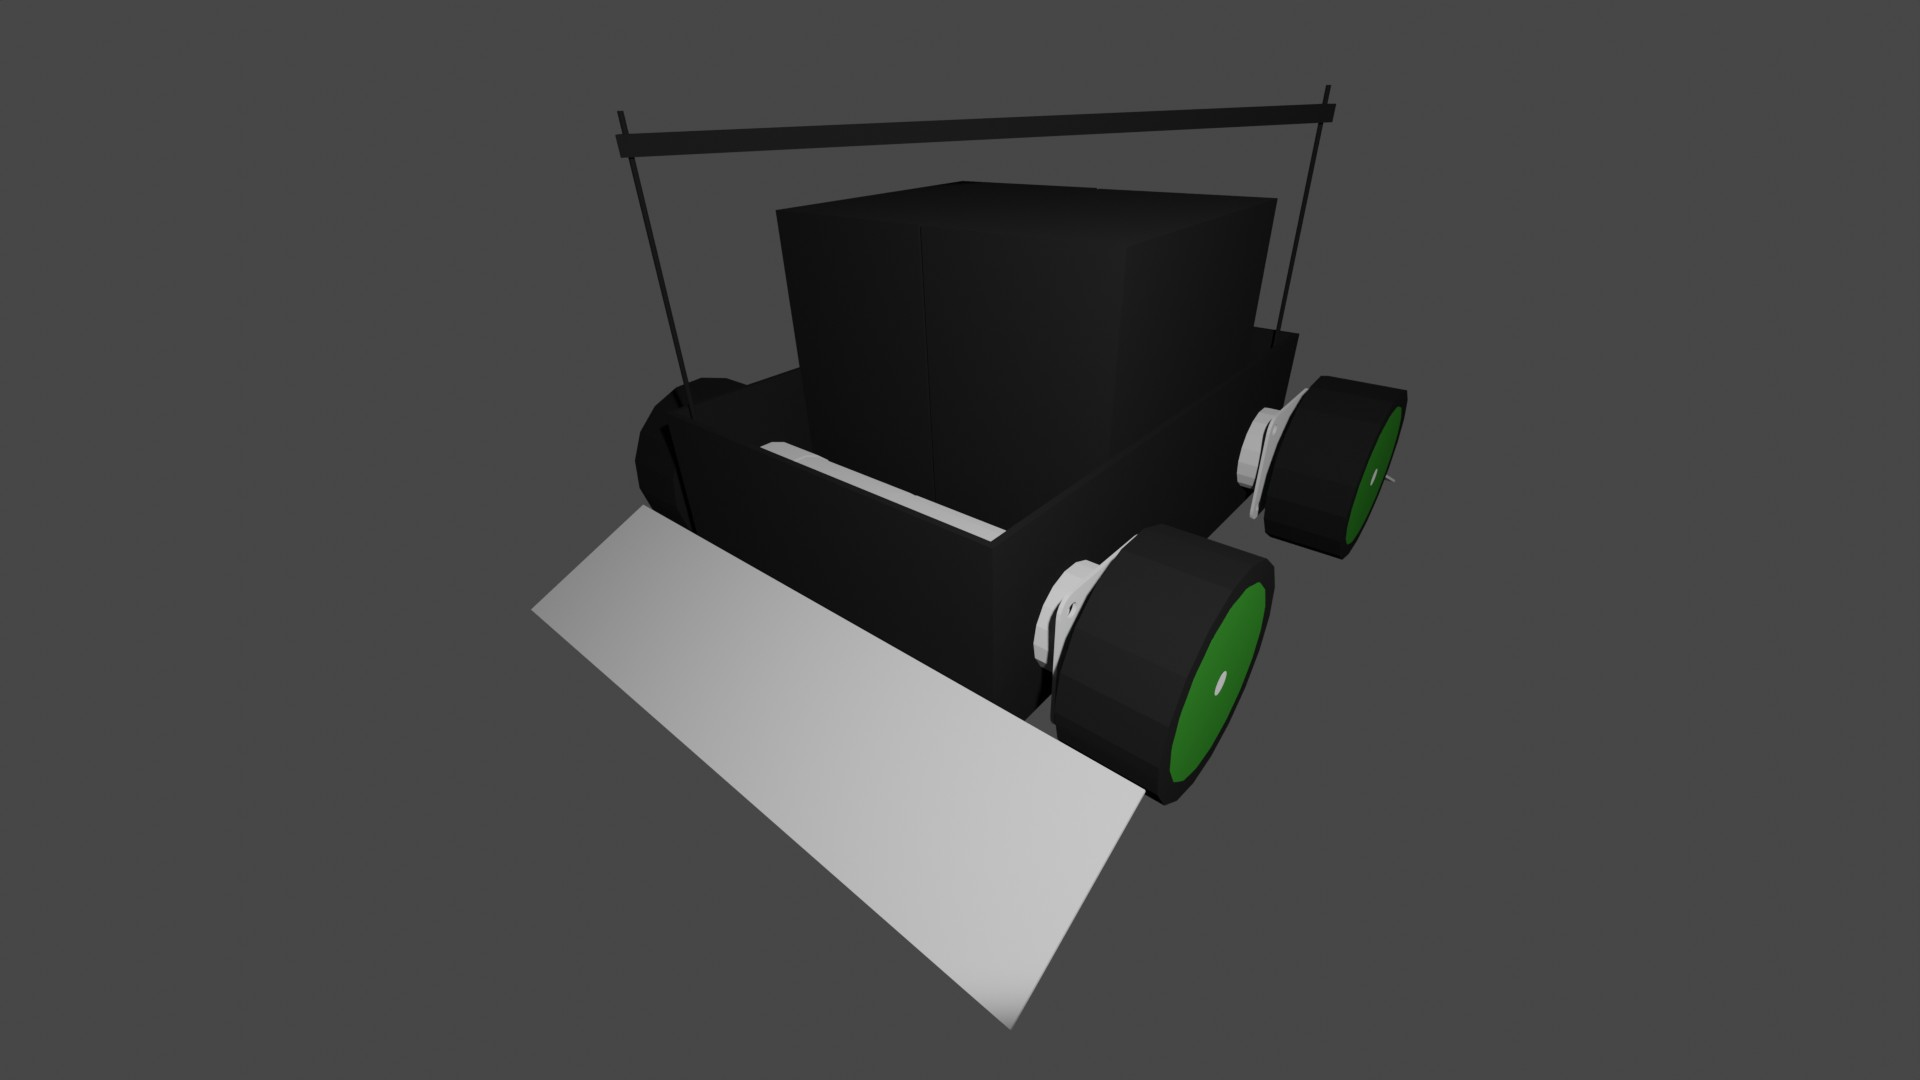
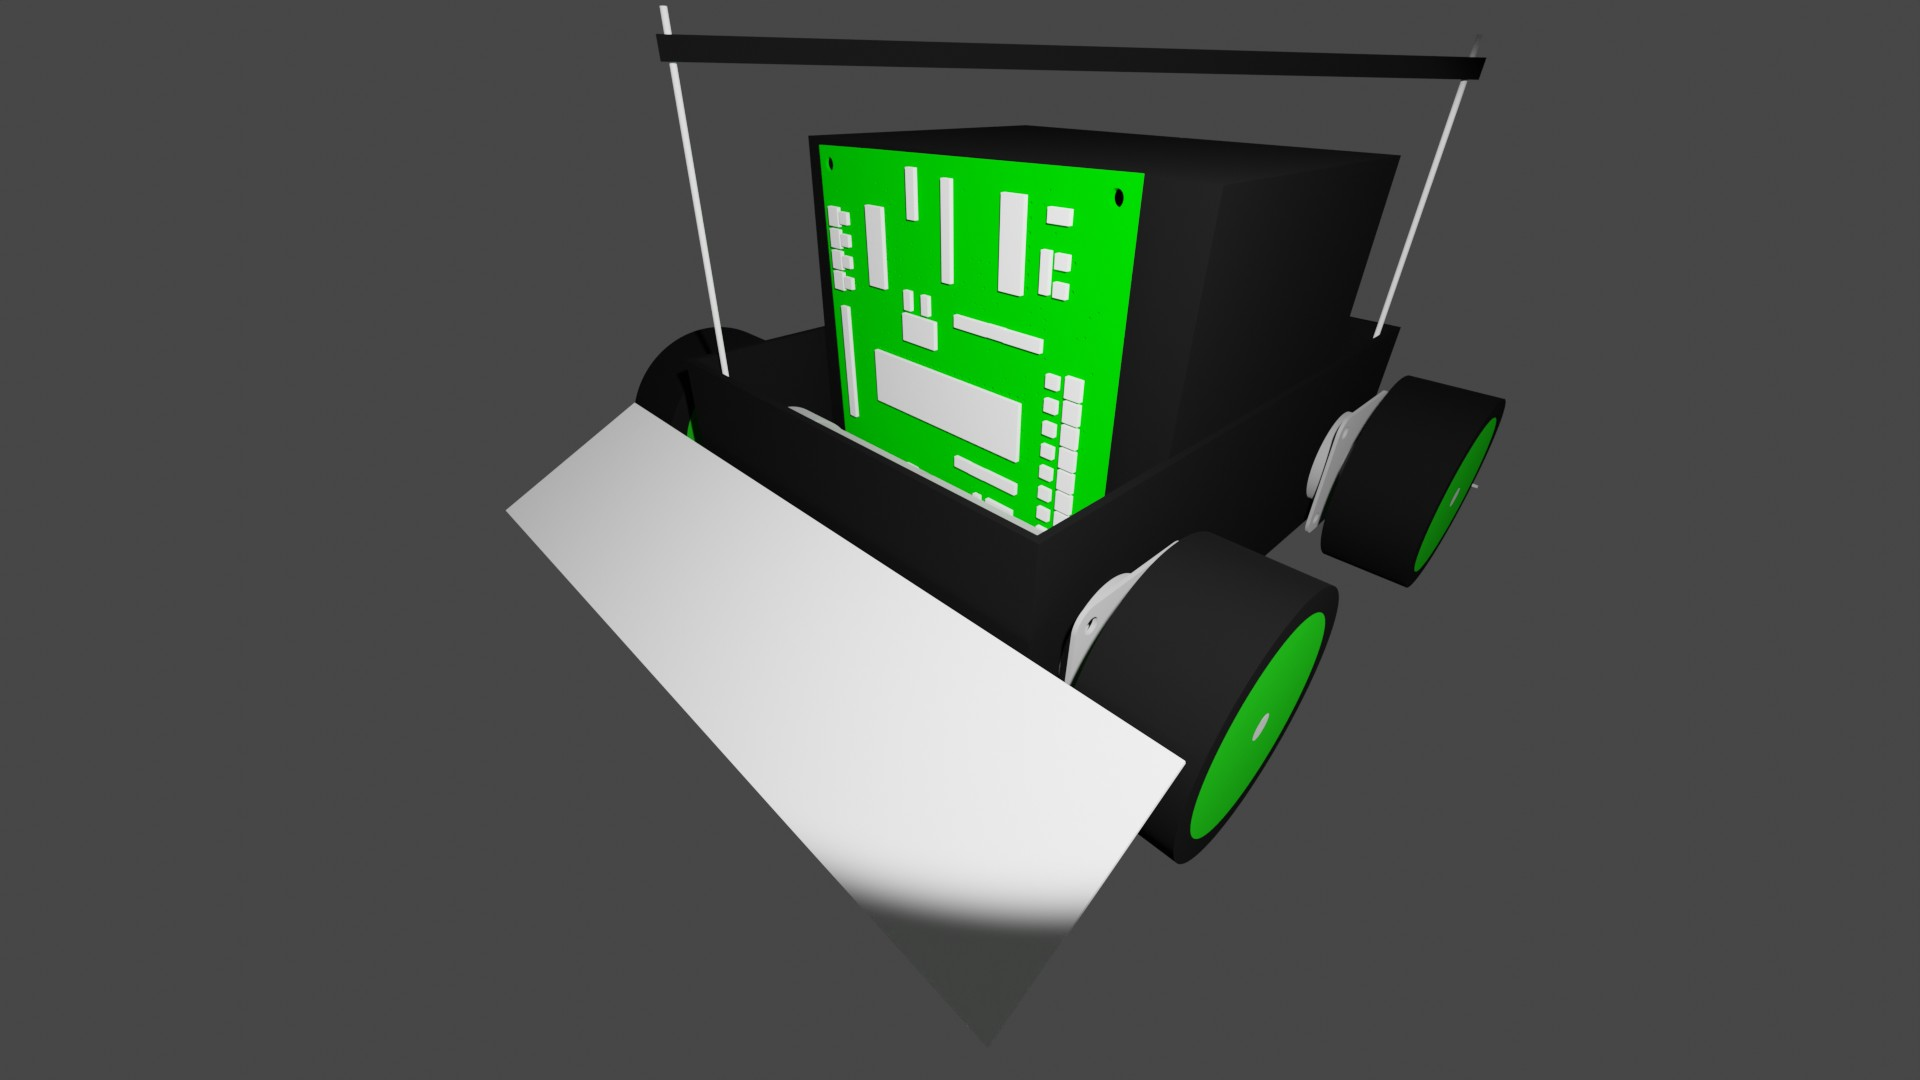
Walter

Changed region(s): [[0.25, 0.0, 0.7812, 0.9472]]

diff --git a/index.html b/index.html
@@ -310,7 +310,7 @@
                 <div class="col text-center" style="background-color: rgb(134,142,150);max-width: 50%;width: 50%;min-width: 50%;">
                     <p style="font-size: 20px;">Robot SUMO 2012<br>Freecad+Blender</p>
                 </div>
-                <div class="col-md-6 text-center"><img class="img-fluid" src="assets/img/FINALBlenderRenderMontuFreecad+Blender.jpg"></div>
+                <div class="col-md-6 text-center"><img class="img-fluid" src="assets/img/FINALBlenderRenderMontuFreecad+Blender2021.jpg"></div>
                 <div class="col-md-6 text-center"></div>
                 <div class="col text-center" style="background-color: rgb(134,142,150);max-width: 50%;width: 50%;min-width: 50%;">
                     <p style="font-size: 20px;">Robot SUMO 2021<br>Freecad+Blender</p>
